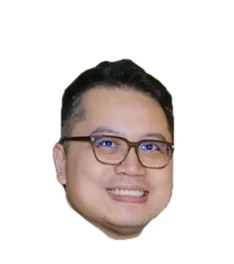
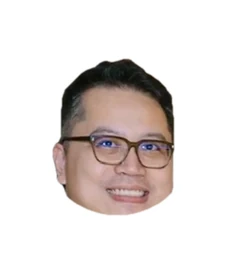
Bỏ cổ, chỉ giữ mặt; đầu vẽ trên cùng nên không bị che

Changed region(s): [[0.2692, 0.7273, 0.7479, 0.9091]]

diff --git a/assets/modules.js b/assets/modules.js
@@ -72,6 +72,7 @@ function w20Rr(g, x, y, w, h, r) { g.beginPath(); g.moveTo(x + r, y); g.arcTo(x 
 function w20Chibi(g, cx, gy, sc, o) {
   var step = o.step || 0, up = o.up || 0, lift = o.lift || 0, shirt = o.shirt || "#ffffff", pants = o.pants || "#1b2a4a", skin = "#f2c9a6", dir = o.dir || 1;
   g.save(); g.translate(cx, gy); g.scale(sc * dir, sc);
+  if (o.part === "head") g.globalAlpha = 0; /* o.part: "body" chỉ vẽ thân, "head" chỉ vẽ đầu (để đầu luôn nằm trên cùng) */
   /* bóng */ g.fillStyle = "rgba(0,0,0,.25)"; g.beginPath(); g.ellipse(0, 2, 38 - lift * .1, 9 - lift * .03, 0, 0, 6.283); g.fill();
   g.translate(0, -lift);
   var swing = Math.sin(step) * 9, legH = 34;
@@ -103,9 +104,10 @@ function w20Chibi(g, cx, gy, sc, o) {
   g.strokeStyle = shirt; g.lineWidth = 13; g.lineJoin = "round"; g.beginPath(); g.moveTo(sx0, sy0); if (ex !== null) g.lineTo(ex, ey); g.lineTo(hx, hy); g.stroke();
   g.fillStyle = skin; g.beginPath(); g.arc(hx, hy, 7.5, 0, 6.283); g.fill();
   if (o.flower) { var fs = 50; g.save(); g.translate(hx, hy - 26); g.rotate(Math.sin(step) * .06); g.drawImage(o.flower, -fs / 2, -fs / 2, fs, fs); g.restore(); }
+  g.globalAlpha = 1; if (o.part === "body") { g.restore(); return; }
   /* đầu to */
   var img = o.img, hw = 108, hh = 126; if (img && img.naturalWidth) { hh = hw * img.naturalHeight / img.naturalWidth; }
-  g.save(); g.translate(0, top - hh * .36); g.rotate(Math.sin(step) * .07 * (o.run ? 1 : .3));
+  g.save(); g.translate(0, top - hh * .5 + 16); g.rotate(Math.sin(step) * .07 * (o.run ? 1 : .3));
   if (img && img.complete && img.naturalWidth) { g.shadowColor = "rgba(0,0,0,.3)"; g.shadowBlur = 8; g.shadowOffsetY = 3; g.scale(dir, 1); g.drawImage(img, -hw / 2, -hh / 2, hw, hh); }
   else { g.fillStyle = skin; g.beginPath(); g.ellipse(0, 0, 50, 56, 0, 0, 6.283); g.fill(); g.fillStyle = "#222"; g.beginPath(); g.arc(-16, -4, 5, 0, 6.283); g.arc(16, -4, 5, 0, 6.283); g.fill(); }
   g.restore(); g.restore();
@@ -179,14 +181,15 @@ function w20BouquetUI(box, opt) {
     }).sort(function (p, q) { return p.y - q.y; });
     (function fr(now) {
       var t = now - T0; ag.clearRect(0, 0, CW, CH); var k = Math.min(1, t / T_RUN), e2 = 1 - Math.pow(1 - k, 2), bq = false;
-      function drawP(P) {
-        var x = P.sx + (P.x - P.sx) * e2, dir = P.x < CX ? 1 : -1, o = { img: w20Img(P.m.img), shirt: P.m.shirt, dir: dir, step: now / 110 + P.i, lift: 0 };
+      function drawP(P, part) {
+        var x = P.sx + (P.x - P.sx) * e2, dir = P.x < CX ? 1 : -1, o = { img: w20Img(P.m.img), shirt: P.m.shirt, dir: dir, step: now / 110 + P.i, lift: 0, part: part };
         if (k < 1) { o.run = 1; o.reach = [x + dir * 34 * P.f, P.y - 74 * P.f]; o.lift = Math.abs(Math.sin(now / 120 + P.i)) * 5; }
         else { o.clap = (t - T_RUN) / 95 + P.i * .7; o.lift = Math.abs(Math.sin((t - T_RUN) / 190 + P.i * .5)) * 12; o.step = 1.6; }
         w20Chibi(ag, x, P.y, P.f, o);
       }
-      ppl.forEach(function (P) { if (!P.back && !bq) { w20DrawBouquet(ag, CX, CY, SR, list); bq = true; } drawP(P); });
+      ppl.forEach(function (P) { if (!P.back && !bq) { w20DrawBouquet(ag, CX, CY, SR, list); bq = true; } drawP(P, "body"); });
       if (!bq) w20DrawBouquet(ag, CX, CY, SR, list);
+      ppl.forEach(function (P) { drawP(P, "head"); }); /* đầu vẽ sau cùng nên mặt không bị bó hoa hay thân ai che */
       if (t < T_RUN + T_CLAP) requestAnimationFrame(fr); else { ag.clearRect(0, 0, CW, CH); go(); }
     })(T0);
   };
